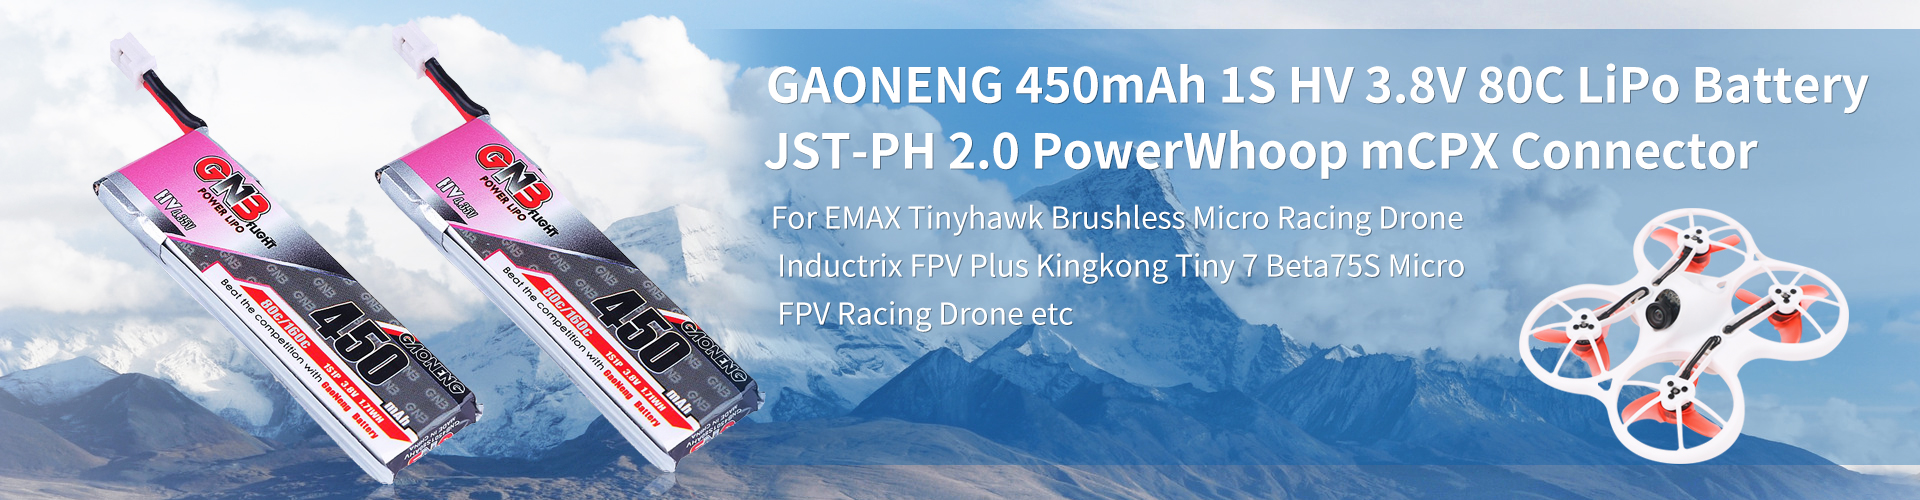
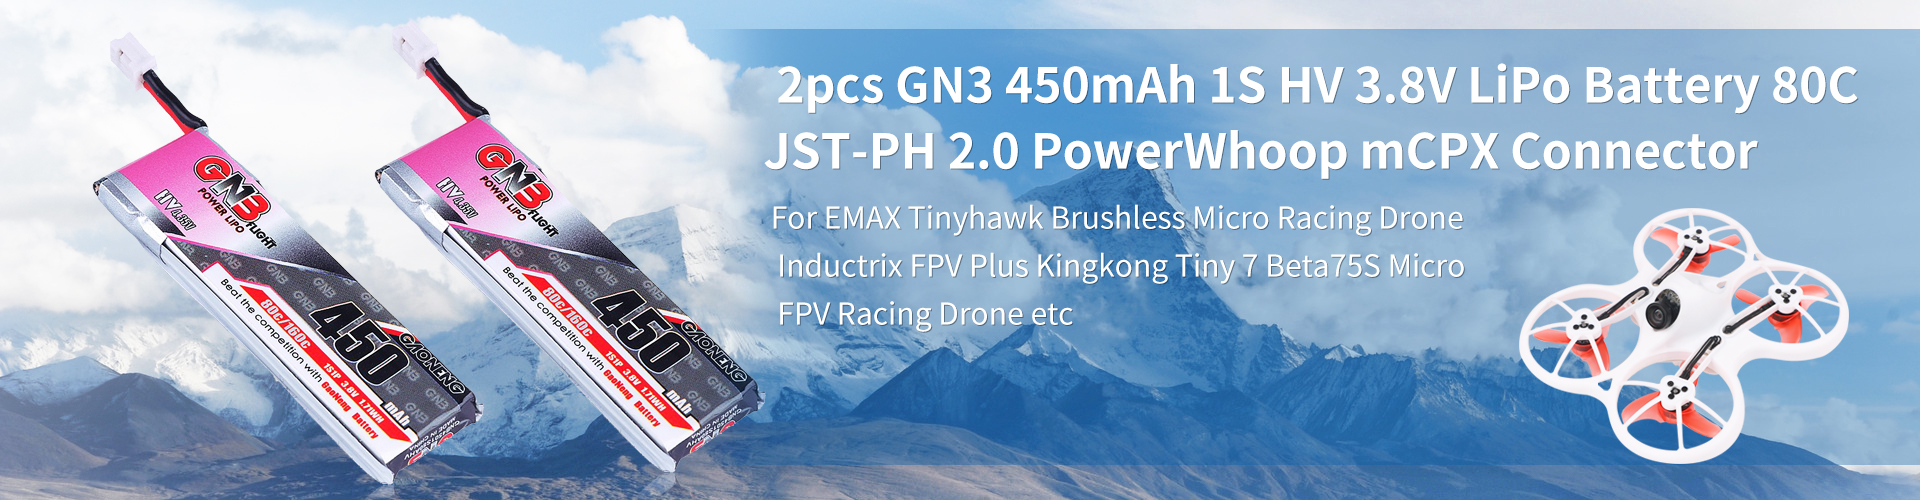
update

Changed region(s): [[0.375, 0.12, 1.0, 0.24]]

diff --git a/products/lipo_battery_80C.md b/products/lipo_battery_80C.md
@@ -4,7 +4,7 @@ title: B07F6WRPTB
 ---
 
 #   
-#  <center>450mAh 1S HV 3.8V 80C LiPo Battery</center>
+#  <center>2pcs GN3 450mAh 1S HV 3.8V LiPo Battery 80C JST-PH 2.0 PowerWhoop mCPX Connector for EMAX Tinyhawk Brushless Micro Racing Drone Inductrix FPV Plus Kingkong Tiny 7 Beta75S Micro FPV Racing Drone etc</center>
 
 > UPC: 190033938385
 
